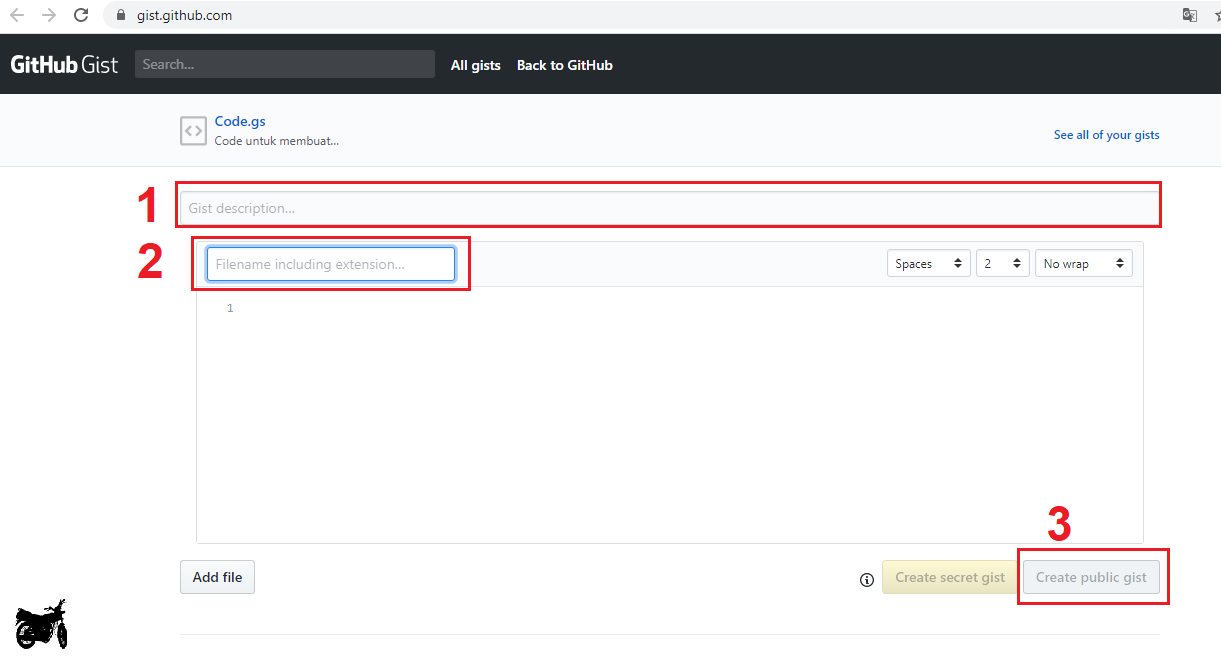
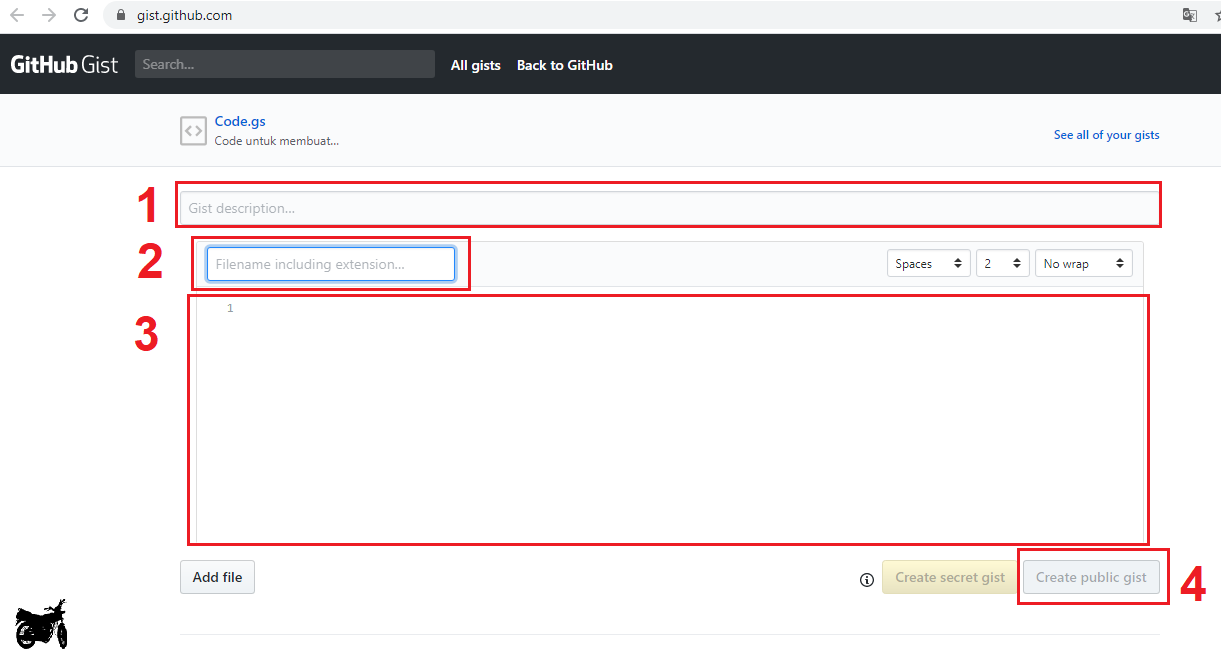
Finish Add post blog in Git navbar

diff --git a/git/embedded-code-using-github/embedded-code-using-github.html b/git/embedded-code-using-github/embedded-code-using-github.html
@@ -141,10 +141,28 @@
           <img src="images\gist-github.png" alt="Gist Github" class ="center-image" width="800" height="400"></li><br><br>
           <b>Gambar no 1</b> diisi dengan Deskripsi <i>code</i>nya. Kalau Deskripsi bebas ya, sesuai dengan apa yang akan dibuat di gist-githubnya 
           Contohnya, karena saya akan menempelkan <i>code</i> tentang Dropdown nama siswa di Google Form. Berarti di deskripsi saya buat
-          <b>Code untuk membuat Dropdown Nama Responses di Google Form</b>.
-          <b>Gambar no 2</b> diisi nama file <i>code</i>nya, beserta <i>ekstensi</i>nya. Contoh saya buat 
+          <b>Code untuk membuat Dropdown Nama Responses di Google Form</b>.<br>
+          <b>Gambar no 2</b> diisi nama file <i>code</i>nya, beserta <i>ekstensi</i>nya. Contoh saya buat <code>Code.gs</code><br>
+          <b>Gambar no 3</b> diisi seluruh <i>code</i>nya, yang akan di embedded ke blog/website.<br>
+          <b>Gambar no 4</b> Ada tombol save, sekaligus menjadikan code yang sudah dibuat di gist-github menjadi public atau bisa diakses oleh siapa saja di internet.<br><br>
         </li>
-      </ol>
+        <li>
+          Hasilnya punya saya akan seperti ini :<br><br>
+          <div class="text-center"><p text-center><b>Code untuk membuat Dropdown Nama Responses di Google Form</b></p></div>
+          <img src="images\tampilan-gist-github.png" alt="Gist Github With Code" class ="center-image" width="900" height="700"><br><br>
+          Kemudian tinggal klik tombol pada gambar 5, untuk <i>copy</i> kemudian nanti <i>paste</i> di blog/website. Kerennya gist-github ini,
+          yang di<i>copy</i> hanya script <code>JavaScript</code> jadi pendek sekali. Trus jika di<i>paste</i> diblog/website sudah menyesuaikan
+          dengan frame sebelumnya. Jadi dah fit dah tampilannya.<br><br>
+        </li>
+        <li>
+          Contohnya, saya <i>paste embedded</i> gist github seperti ini : <br><br>
+          <img src="images\paste-disini.png" alt="Embedded Gist Github in Code" class ="center-image" width="900" height="50"><br><br>
+          Hasilnya seperti pada note saya yang <a href="..\..\google-apps\dropdownmenu-googleform\dropdownmenu-googleform.html" target="_blank">disini</a> di nomor 6 ya.</li> <br><br>
+    </ol>
+    Semoga berhasil bagi yang mencoba &#128522;, demikian note saya.<br><br>
+
+    Referensi : <a href="https://medium.com/@aryamurali/embed-code-in-medium-e95b839cfdda" target="_blank">https://medium.com/@aryamurali/embed-code-in-medium-e95b839cfdda</a>
+        
 
 
     
